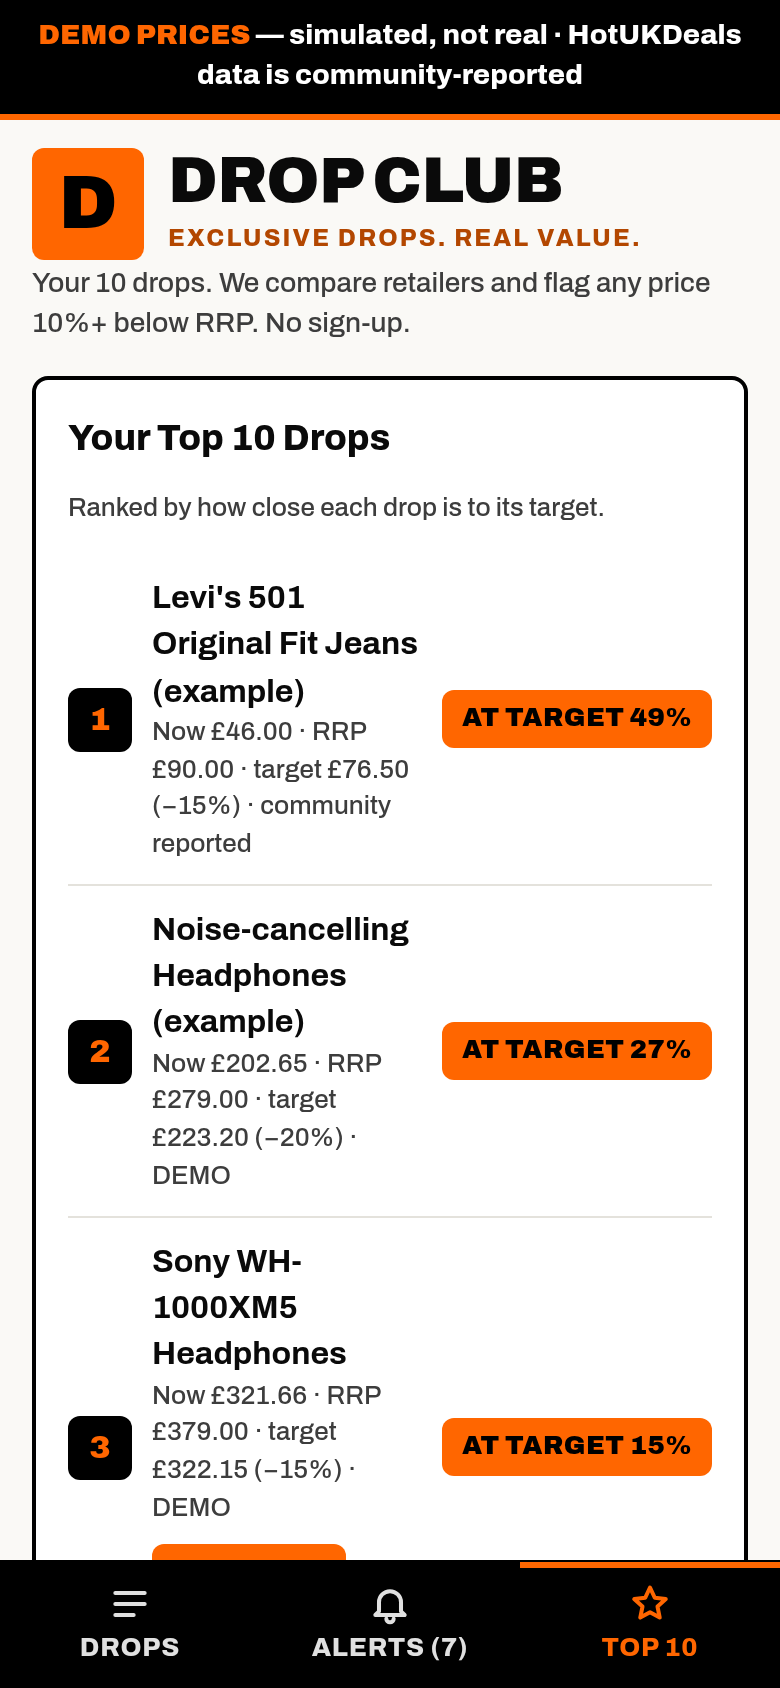
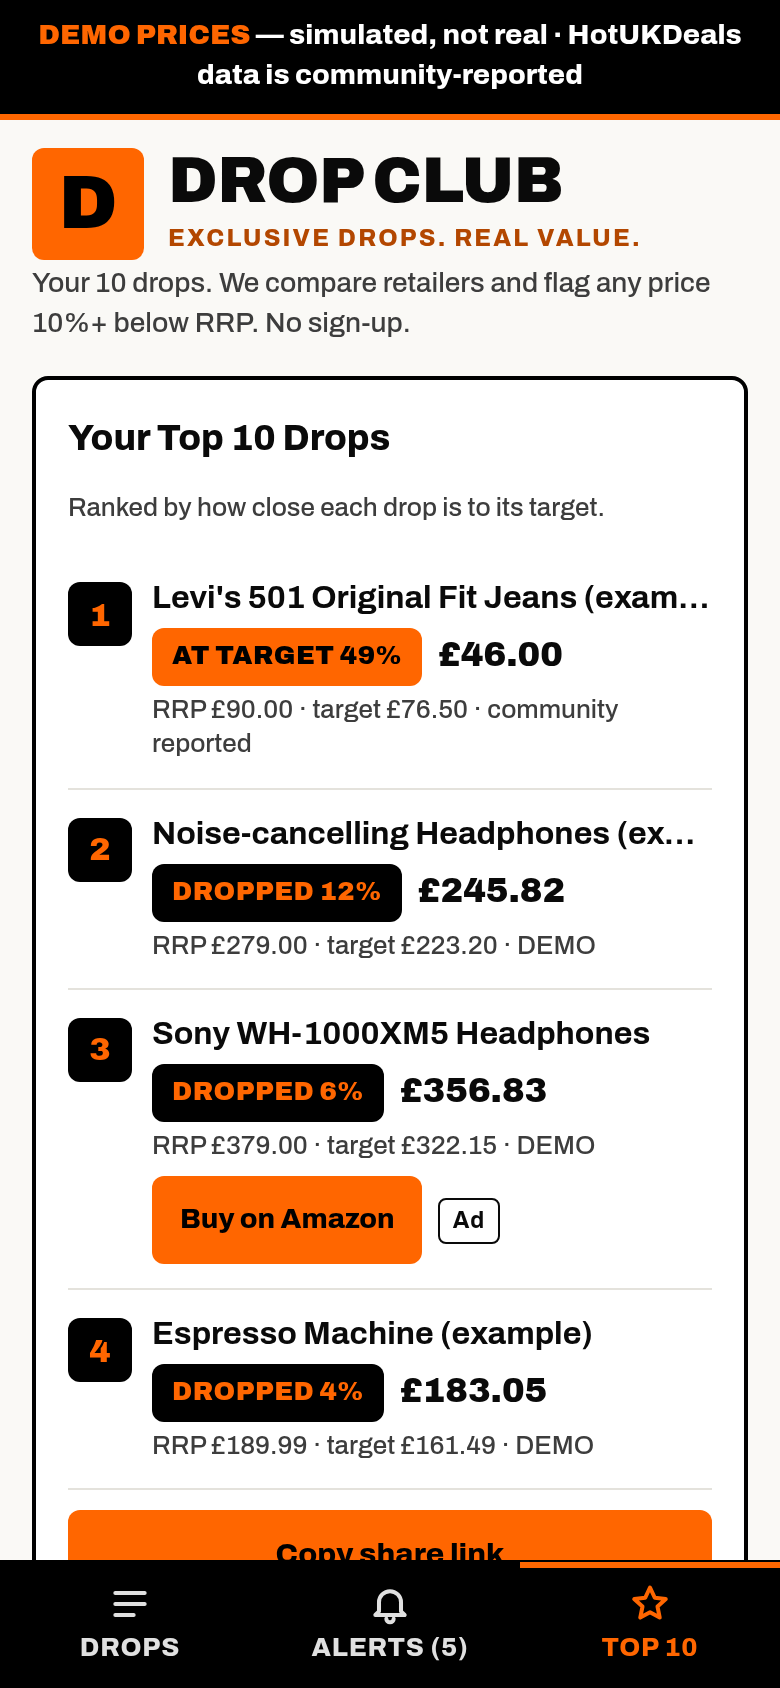
Drop Club: compact Top 10 rows at 390px (one-line name, pill + price inline, short meta); remove stale old-branded screenshots/ and legacy theme PNGs; regenerate dropclub-* and affiliate-buy; README/QA refs

Changed region(s): [[0.0615, 0.3389, 0.9231, 0.9242], [0.5538, 0.955, 0.5846, 0.9858], [0.1231, 0.6161, 0.1538, 0.6469]]

diff --git a/build/src.html b/build/src.html
@@ -109,7 +109,7 @@ html:not([data-theme]) .cmp,html[data-theme=drop] .cmp{border-width:2px}html:not
 html[data-theme=clean] .alert,html[data-theme=hybrid] .alert{border:1px solid var(--line2);border-left:4px solid var(--alert-edge)}
 ol.top{padding:0;list-style:none;counter-reset:n;margin:0}ol.top li{counter-increment:n;display:flex;gap:10px;align-items:center;padding:10px 0;border-bottom:1px solid var(--line)}ol.top li:before{content:counter(n);font-weight:var(--fw-x);color:var(--rank-ink);background:var(--rank);width:32px;height:32px;border-radius:var(--rp);display:grid;place-items:center;flex:none}
 html:not([data-theme]) ol.top li:before,html[data-theme=drop] ol.top li:before{border-radius:6px}
-ol.top .g{flex:1}.small{font-size:13px;color:var(--mut)}.empty{color:var(--mut);text-align:center;padding:16px}
+ol.top .g{flex:1;min-width:0}ol.top li{align-items:flex-start;padding:12px 0}ol.top .tn{display:block;overflow:hidden;text-overflow:ellipsis;white-space:nowrap;line-height:1.3}ol.top .tm{display:flex;flex-wrap:wrap;align-items:center;gap:4px 8px;margin-top:4px}ol.top .tp{font-weight:var(--fw-x);font-size:17px}ol.top .tm .small{flex-basis:100%;line-height:1.35}ol.top .buy{margin-top:6px}ol.top li:before{margin-top:2px}.small{font-size:13px;color:var(--mut)}.empty{color:var(--mut);text-align:center;padding:16px}
 .ro{background:var(--wabg);color:var(--wa);padding:10px 12px;border-radius:var(--rs);font-weight:var(--fw-b);margin-bottom:10px}
 .toggle{display:flex;align-items:center;gap:10px;font-weight:var(--fw-b);min-height:44px}.toggle input{width:24px;height:24px;accent-color:var(--ctl)}
 .srcs{display:grid;gap:8px}.src{display:flex;justify-content:space-between;align-items:center;gap:8px;border:1.5px solid var(--line);border-radius:var(--rs);padding:10px 12px;font-size:14px}.src.off{background:var(--subtle)}.src>div{min-width:0}.src .pill{white-space:normal;text-align:center;flex:none;max-width:42%}
@@ -425,7 +425,7 @@ function shareList(){return S.items.map(function(i){return{n:i.name,u:i.url,o:i.
 function rank(list){return list.slice().sort(function(a,b){return(a.c/(a.o*(1-a.p/100)))-(b.c/(b.o*(1-b.p/100)))})}
 function stOf(x){return status({orig:x.o,cur:x.c,pct:x.p,rec:{error_state:x.e||'ok'}})}
 function srcLabel(s){return s==='hukd_rss'?'community reported':s==='demo'?'DEMO':s==='manual'?'manual':'n/a'}
-function topHtml(list){if(!list.length)return'<li class="empty" style="display:block">No items yet.</li>';return rank(list).map(function(x){var st=stOf(x);return'<li><div class="g"><b>'+esc(x.n)+'</b><div class="small">Now '+gbp(x.c)+' · RRP '+gbp(x.o)+' · target '+gbp(Math.round(x.o*(1-x.p/100)))+' (−'+x.p+'%) · '+srcLabel(x.s)+'</div>'+buyHtml(x.u,'top')+'</div><span class="pill '+st[1]+'"'+(st[1]=='p-d'||st[1]=='p-t'?pillAttr({orig:x.o,cur:x.c}):'')+'>'+st[0]+'</span></li>'}).join('')}
+function topHtml(list){if(!list.length)return'<li class="empty" style="display:block">No items yet.</li>';return rank(list).map(function(x){var st=stOf(x);return'<li><div class="g"><b class="tn" title="'+esc(x.n)+'">'+esc(x.n)+'</b><div class="tm"><span class="pill '+st[1]+'"'+(st[1]=='p-d'||st[1]=='p-t'?pillAttr({orig:x.o,cur:x.c}):'')+'>'+st[0]+'</span><span class="tp">'+gbp(x.c)+'</span><span class="small">RRP '+gbp(x.o)+' · target '+gbp(Math.round(x.o*(1-x.p/100)))+' · '+srcLabel(x.s)+'</span></div>'+buyHtml(x.u,'top')+'</div></li>'}).join('')}
 $('cards').onclick=function(e){var b=e.target.closest('button');if(!b)return;var id=b.closest('.card').dataset.id,it=S.items.find(function(x){return x.id==id}),a=b.dataset.a;
  if(a=='del'){ask('Delete \u201c'+it.name+'\u201d?',{ok:'Delete',danger:true}).then(function(y){if(!y)return;S.items=S.items.filter(function(x){return x.id!=id});if(editing==id)resetForm();save();render()})}
  else if(a=='retry'){refreshItem(it).then(function(){save();render()})}

diff --git a/index.html b/index.html
@@ -109,7 +109,7 @@ html:not([data-theme]) .cmp,html[data-theme=drop] .cmp{border-width:2px}html:not
 html[data-theme=clean] .alert,html[data-theme=hybrid] .alert{border:1px solid var(--line2);border-left:4px solid var(--alert-edge)}
 ol.top{padding:0;list-style:none;counter-reset:n;margin:0}ol.top li{counter-increment:n;display:flex;gap:10px;align-items:center;padding:10px 0;border-bottom:1px solid var(--line)}ol.top li:before{content:counter(n);font-weight:var(--fw-x);color:var(--rank-ink);background:var(--rank);width:32px;height:32px;border-radius:var(--rp);display:grid;place-items:center;flex:none}
 html:not([data-theme]) ol.top li:before,html[data-theme=drop] ol.top li:before{border-radius:6px}
-ol.top .g{flex:1}.small{font-size:13px;color:var(--mut)}.empty{color:var(--mut);text-align:center;padding:16px}
+ol.top .g{flex:1;min-width:0}ol.top li{align-items:flex-start;padding:12px 0}ol.top .tn{display:block;overflow:hidden;text-overflow:ellipsis;white-space:nowrap;line-height:1.3}ol.top .tm{display:flex;flex-wrap:wrap;align-items:center;gap:4px 8px;margin-top:4px}ol.top .tp{font-weight:var(--fw-x);font-size:17px}ol.top .tm .small{flex-basis:100%;line-height:1.35}ol.top .buy{margin-top:6px}ol.top li:before{margin-top:2px}.small{font-size:13px;color:var(--mut)}.empty{color:var(--mut);text-align:center;padding:16px}
 .ro{background:var(--wabg);color:var(--wa);padding:10px 12px;border-radius:var(--rs);font-weight:var(--fw-b);margin-bottom:10px}
 .toggle{display:flex;align-items:center;gap:10px;font-weight:var(--fw-b);min-height:44px}.toggle input{width:24px;height:24px;accent-color:var(--ctl)}
 .srcs{display:grid;gap:8px}.src{display:flex;justify-content:space-between;align-items:center;gap:8px;border:1.5px solid var(--line);border-radius:var(--rs);padding:10px 12px;font-size:14px}.src.off{background:var(--subtle)}.src>div{min-width:0}.src .pill{white-space:normal;text-align:center;flex:none;max-width:42%}
@@ -428,7 +428,7 @@ function shareList(){return S.items.map(function(i){return{n:i.name,u:i.url,o:i.
 function rank(list){return list.slice().sort(function(a,b){return(a.c/(a.o*(1-a.p/100)))-(b.c/(b.o*(1-b.p/100)))})}
 function stOf(x){return status({orig:x.o,cur:x.c,pct:x.p,rec:{error_state:x.e||'ok'}})}
 function srcLabel(s){return s==='hukd_rss'?'community reported':s==='demo'?'DEMO':s==='manual'?'manual':'n/a'}
-function topHtml(list){if(!list.length)return'<li class="empty" style="display:block">No items yet.</li>';return rank(list).map(function(x){var st=stOf(x);return'<li><div class="g"><b>'+esc(x.n)+'</b><div class="small">Now '+gbp(x.c)+' · RRP '+gbp(x.o)+' · target '+gbp(Math.round(x.o*(1-x.p/100)))+' (−'+x.p+'%) · '+srcLabel(x.s)+'</div>'+buyHtml(x.u,'top')+'</div><span class="pill '+st[1]+'"'+(st[1]=='p-d'||st[1]=='p-t'?pillAttr({orig:x.o,cur:x.c}):'')+'>'+st[0]+'</span></li>'}).join('')}
+function topHtml(list){if(!list.length)return'<li class="empty" style="display:block">No items yet.</li>';return rank(list).map(function(x){var st=stOf(x);return'<li><div class="g"><b class="tn" title="'+esc(x.n)+'">'+esc(x.n)+'</b><div class="tm"><span class="pill '+st[1]+'"'+(st[1]=='p-d'||st[1]=='p-t'?pillAttr({orig:x.o,cur:x.c}):'')+'>'+st[0]+'</span><span class="tp">'+gbp(x.c)+'</span><span class="small">RRP '+gbp(x.o)+' · target '+gbp(Math.round(x.o*(1-x.p/100)))+' · '+srcLabel(x.s)+'</span></div>'+buyHtml(x.u,'top')+'</div></li>'}).join('')}
 $('cards').onclick=function(e){var b=e.target.closest('button');if(!b)return;var id=b.closest('.card').dataset.id,it=S.items.find(function(x){return x.id==id}),a=b.dataset.a;
  if(a=='del'){ask('Delete \u201c'+it.name+'\u201d?',{ok:'Delete',danger:true}).then(function(y){if(!y)return;S.items=S.items.filter(function(x){return x.id!=id});if(editing==id)resetForm();save();render()})}
  else if(a=='retry'){refreshItem(it).then(function(){save();render()})}

diff --git a/qa/QA-REPORT.md b/qa/QA-REPORT.md
@@ -122,7 +122,7 @@ The default theme was reworked to match clean's restraint, with purple #5b3df5 a
 - The text wordmark "Wishlist **Drop**" is in the header and on the share card.
 - **Theme picker:** hidden on the plain default URL. It shows only when `?theme=` is present or a non-default theme is stored.
 
-TH2 was updated to cover this. Tests: qa.js 62/62, build/test.js 23/23. axe contrast: 0 failures in all 4 themes (`qa/themes-contrast.txt`). Screenshots: `themes/purple-clean-{watch,alerts,top10,sharecard}.png`.
+TH2 was updated to cover this. Tests: qa.js 62/62, build/test.js 23/23. axe contrast: 0 failures in all 4 themes (`qa/themes-contrast.txt`). Screenshots: `themes/purple-clean-{watch,alerts,top10,sharecard}.png` (since removed; superseded by `themes/dropclub-*.png`).
 
 ## Affiliate links (2026-10-21)
 The config is in `build/src.html` → `var AFFILIATE = { amazonUK: { tag: '' }, ... }`. Only the "Buy on Amazon" button is ever tagged: on item cards, alerts, the Top 10 and the shared read-only view. The item's own link is never changed.
@@ -145,3 +145,7 @@ Tests: AF1 (15 URL cases), AF2 (tag set: cards/alerts/shared view, existing tag 
 - **Old looks:** only via `?theme=purple|drop|clean|hybrid`.
 - **Storage:** localStorage key `wishlistDrop.v2` is unchanged, so existing data is kept. The theme preference key changed to `dropClub.theme` so every returning visitor sees the new default.
 - **New tests:** DC1 (brand, meta/OG, copy) and DC2 (palette audit of all screens, the share card pixels and the sparkline). TH1–TH4 were updated for 5 themes. Results: qa.js 68/68, build/test.js 23/23, axe contrast 0 failures on 25 screens (5 themes × 5).
+
+
+## Top 10 compact rows + screenshot cleanup (2026-10-17)
+Top 10 rows at 390px: the name is on one line (ellipsis, full name in `title`), then the status pill and price inline, then one short meta line (RRP · target · source), then the Buy button. Seed rows went from 166/124/147px to 118/100/100px tall (measured at 390px). Stale old-branded `screenshots/` and legacy `themes/*-{watch,alerts,top10,sharecard}.png` were removed. `affiliate-buy.png` and `dropclub-*.png` were regenerated. Tests: qa.js 68/68, build/test.js 23/23, axe contrast: fail 0 on all 25 screens.

diff --git a/README.md b/README.md
@@ -17,7 +17,9 @@ Add `?theme=` to the URL. The **Theme** picker appears in the header only when `
 | clean | Off-white, near-black text, single green accent #0A7F4F, thin borders, Inter 500/700 | https://nathanjaldridge-star.github.io/wishlist-drop/?theme=clean |
 | hybrid | Clean layout, orange only for CTAs, drop badges and "at target" | https://nathanjaldridge-star.github.io/wishlist-drop/?theme=hybrid |
 
-<img src="themes/purple-clean-watch.png" width="200"> <img src="themes/drop-watch.png" width="200"> <img src="themes/clean-watch.png" width="200"> <img src="themes/hybrid-top10.png" width="200"> <img src="themes/drop-sharecard.png" width="200">
+<img src="themes/dropclub-top10.png" width="200"> <img src="themes/dropclub-alerts.png" width="200"> <img src="themes/affiliate-buy.png" width="200">
+
+Screenshots show the Drop Club default only. The legacy themes are still live via `?theme=`, but their old-branded screenshots have been removed.
 
 The DEMO banner and labels show in every theme. All five themes pass an axe-core WCAG AA scan with no colour-contrast failures (`qa/themes-contrast.txt`). White text never sits on #FF6600 (2.9:1). Black is used instead, and small orange text is #B34700. The share card PNG follows the theme. Fonts load from Google Fonts (free) without blocking the page, with system fonts offline.
 
@@ -56,7 +58,7 @@ Every source is an adapter: `getPrice(item) → Promise<record>`, plus an option
 ## Repo layout
 - `index.html`: the whole app (self-contained, also works offline from `file://`), built from `build/src.html` with `build/hukd_sample.xml` injected at `%%HUKD%%`.
 - `build/test.js`: headless test (playwright-core + system Chrome, ajv schema validation). Run `npm i playwright-core ajv ajv-formats && node build/test.js` (it uses absolute paths from the dev box; adjust `D`).
-- `data/hukd.json`: the RSS mirror. `docs/`: the price contract. `screenshots/`.
+- `data/hukd.json`: the RSS mirror. `docs/`: the price contract. `themes/`: current Drop Club screenshots.
 
 ## Limitations
 - In-browser alerts only, and only while the page is open. There's no email or push yet (see roadmap).
